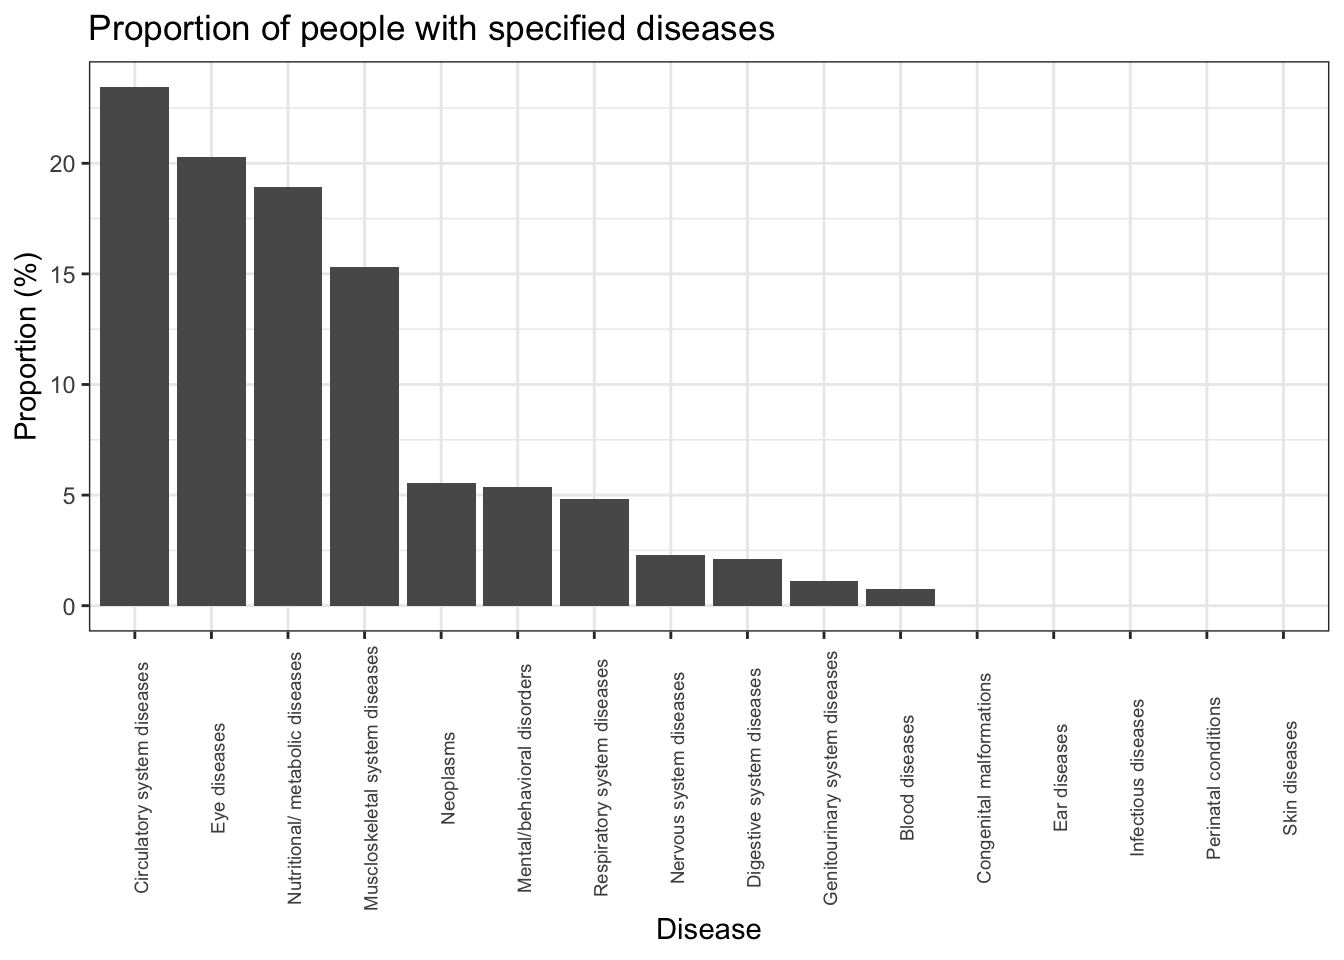
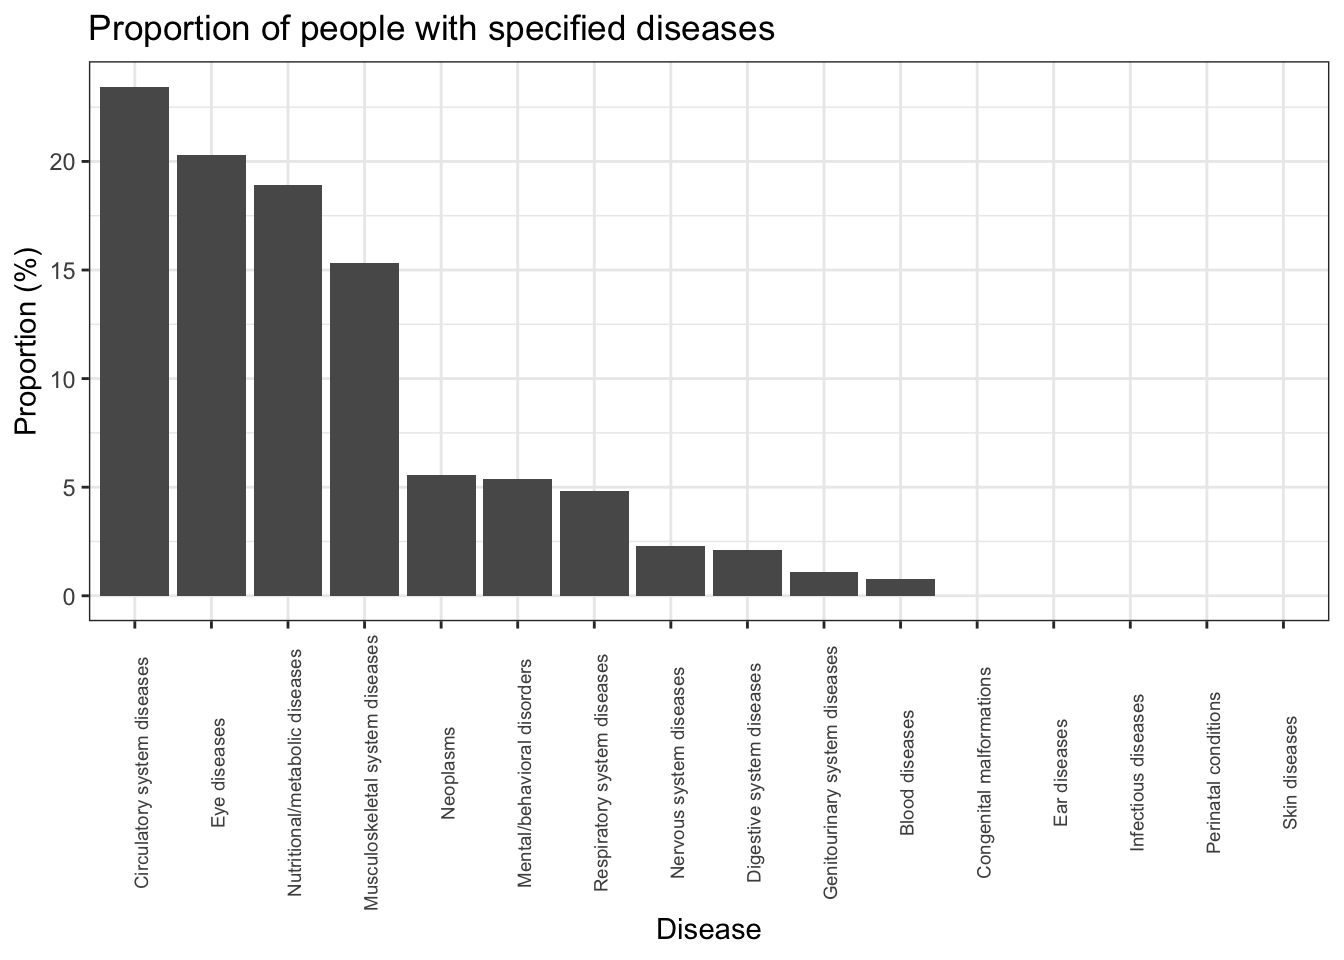
typo edits to graph

diff --git a/Final_Report.html b/Final_Report.html
@@ -336,7 +336,7 @@ bar_graph =
     icd_code == &quot;01&quot; ~ &quot;Infectious diseases&quot;,
     icd_code == &quot;02&quot; ~ &quot;Neoplasms&quot;,
     icd_code == &quot;03&quot; ~ &quot;Blood diseases&quot;,
-    icd_code == &quot;04&quot; ~ &quot;Nutritional/ metabolic diseases&quot;,
+    icd_code == &quot;04&quot; ~ &quot;Nutritional/metabolic diseases&quot;,
     icd_code == &quot;05&quot; ~ &quot;Mental/behavioral disorders&quot;,
     icd_code == &quot;06&quot; ~ &quot;Nervous system diseases&quot;,
     icd_code == &quot;07&quot; ~ &quot;Eye diseases&quot;,
@@ -345,7 +345,7 @@ bar_graph =
     icd_code == &quot;10&quot; ~ &quot;Respiratory system diseases&quot;,
     icd_code == &quot;11&quot; ~ &quot;Digestive system diseases&quot;,
     icd_code == &quot;12&quot; ~ &quot;Skin diseases&quot;,
-    icd_code == &quot;13&quot; ~ &quot;Muscloskeletal system diseases&quot;,
+    icd_code == &quot;13&quot; ~ &quot;Musculoskeletal system diseases&quot;,
     icd_code == &quot;14&quot; ~ &quot;Genitourinary system diseases&quot;,
     icd_code == &quot;15&quot; ~ &quot;Perinatal conditions&quot;,
     icd_code == &quot;16&quot; ~ &quot;Congenital malformations&quot;
